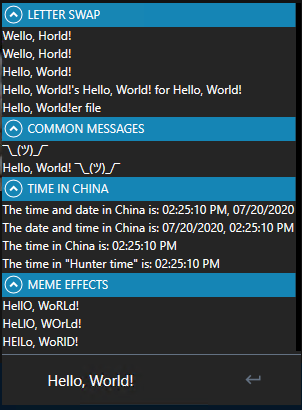
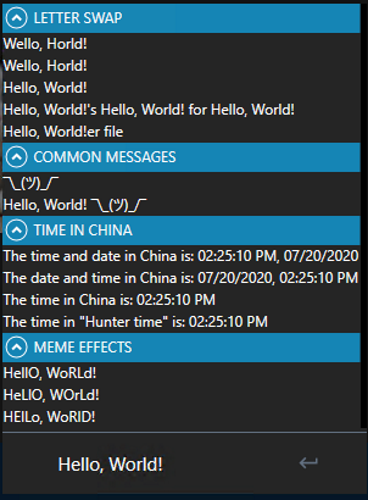
Resized plugin photos for better appearance

Changed region(s): [[0.0, 0.0, 0.9834, 0.8488], [0.149, 0.9073, 0.447, 0.9659]]

diff --git a/README.md b/README.md
@@ -58,10 +58,10 @@ Featured Open-Source, 3rd-Party Plugins:
   </tr>
   <tr>
     <td>
-    <img src="./docs/screenshots/MessagePlugin.png" height="400px" style="max-width: 50%; display:block ">
+    <img src="./docs/screenshots/MessagePlugin.png" style="max-width: 100%; display:block ">
     </td>
     <td>
-    <img src="./docs/screenshots/GMDC-Giphy.png" height="400px" style="max-width: 50%; display:block ">
+    <img src="./docs/screenshots/GMDC-Giphy.png" style="max-width: 100%; display:block ">
     </td>
   </tr>
 </table>
